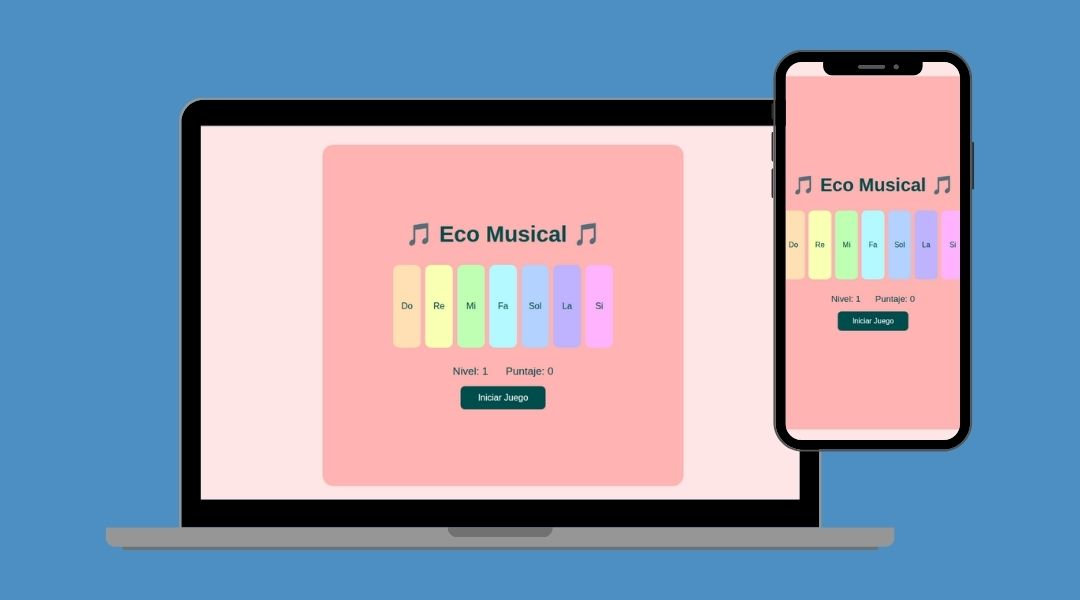
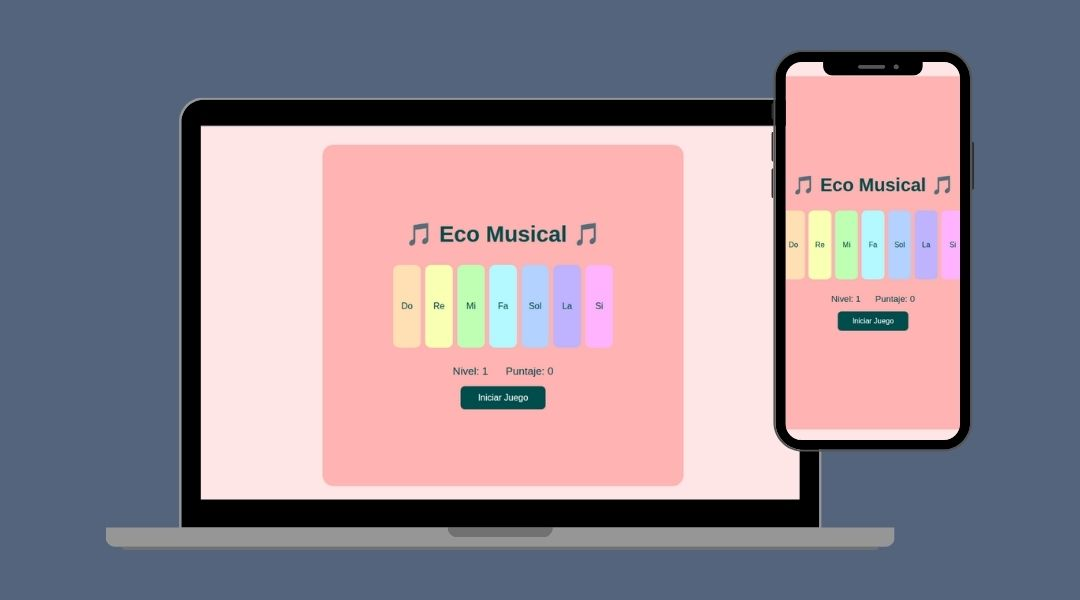
add color

diff --git a/css/tokens.css b/css/tokens.css
@@ -1,11 +1,11 @@
 :root {
   /* Colores */
 
-  --black: #081012;
-  --blue: #4d8fc3;
-  --cream: #fff3eb;
-  --sand: #e0ab9a;
-  --coral: #ef8a84;
+  --black: #22262f;
+  --blue: #55647d;
+  --cream: #f6f7f9;
+  --sand: #bfb2b2;
+  --coral: #816c65;
 
   --color-bg: var(--cream);
   --color-secundary: var(--blue);
